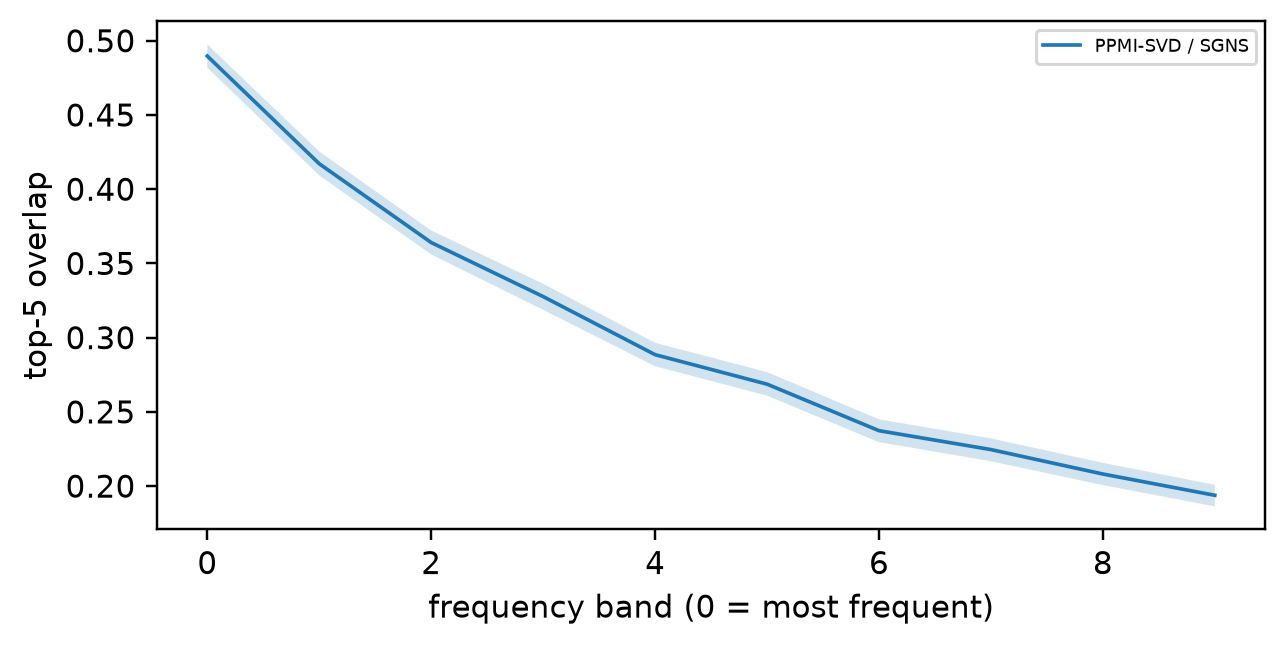
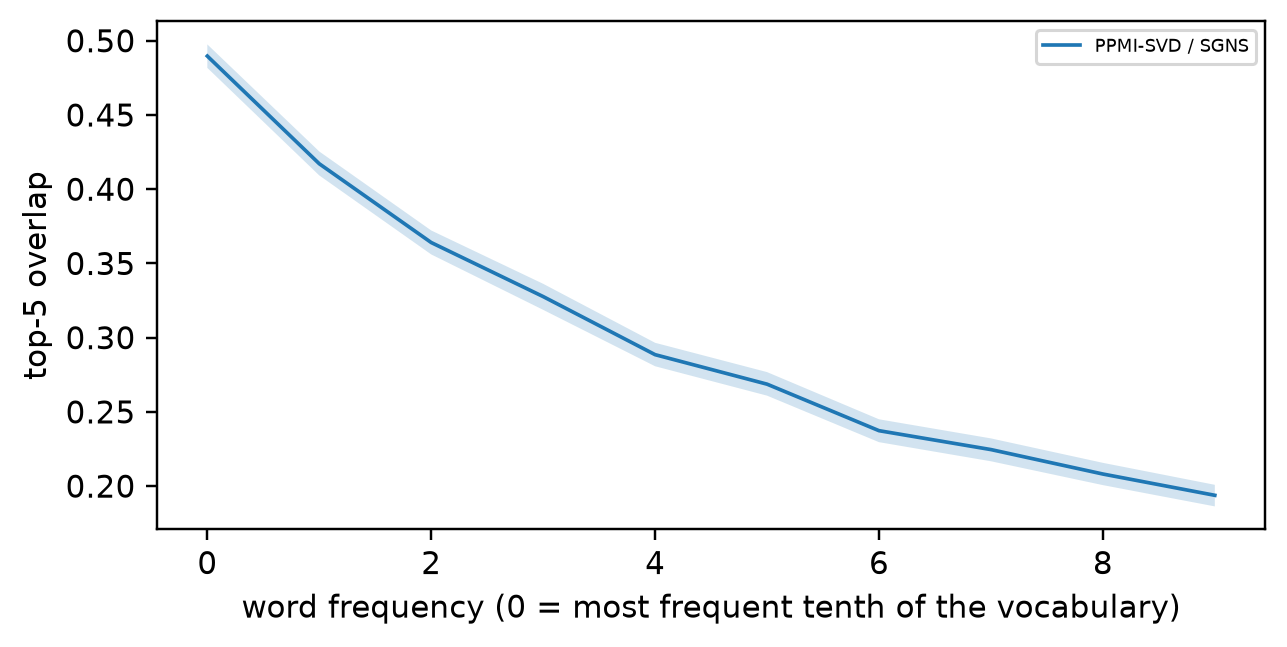
Refactor meaning_as_likeness.qmd for clarity; update AUC and overlap figure descriptions for improved understanding

Changed region(s): [[0.1865, 0.9274, 0.9324, 0.9583]]

diff --git a/code/meaning_as_likeness/gallery_figures.py b/code/meaning_as_likeness/gallery_figures.py
@@ -90,19 +90,20 @@ def auc_bars(results: dict, names: list[str]) -> None:
                color="lightgrey" if "random" in name else None, edgecolor="grey" if "random" in name else None)
     ax.axhline(0.5, color="black", lw=0.6, ls="--")
     ax.set_xticks(np.arange(3), [label for _, label in CONTRASTS], fontsize=7)
-    ax.set(ylabel="AUC (0.5 = no difference)", ylim=(0, 1.12))
+    ax.set(ylabel="Probability (0.5 = no difference)", ylim=(0, 1.12))
     ax.legend(fontsize=6, ncol=5, loc="upper center")
     save(fig, "gallery_auc")
 
 
 def overlap_by_band(overlap: dict) -> None:
-    """Mean top-5 overlap of two spaces, band by band from the most frequent to the rarest words, with the bootstrap interval over words."""
+    """Mean top-5 overlap of two spaces as a function of the frequency of the word (the vocabulary cut into ten groups of equal size,
+    from the most frequent to the rarest), with the bootstrap interval over words."""
     fig, ax = plt.subplots(figsize=(6.5, 3.0))
     for (pair, per_band), style in zip(overlap.items(), ["-", "--", "-.", ":", "-", "--"]):
         mean, low, high = (np.array([b[i] for b in per_band]) for i in range(3))
         ax.plot(range(len(mean)), mean, style, lw=1.2, label=pair)
         ax.fill_between(range(len(mean)), low, high, alpha=0.2)
-    ax.set(xlabel="frequency band (0 = most frequent)", ylabel="top-5 overlap")
+    ax.set(xlabel="word frequency (0 = most frequent tenth of the vocabulary)", ylabel="top-5 overlap")
     ax.legend(fontsize=6)
     save(fig, "gallery_overlap")
 
